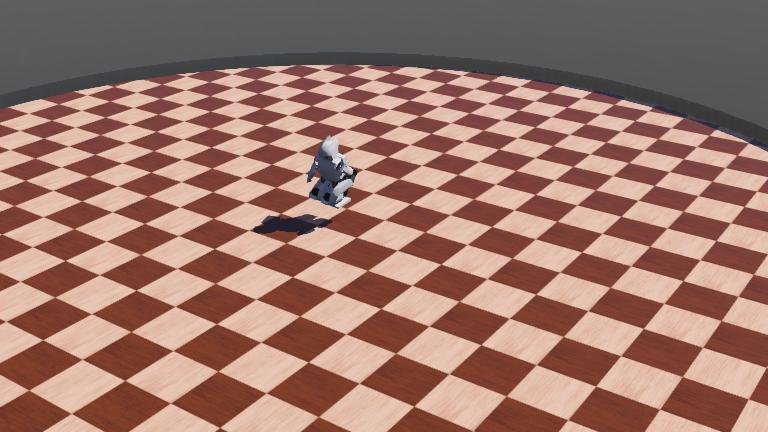
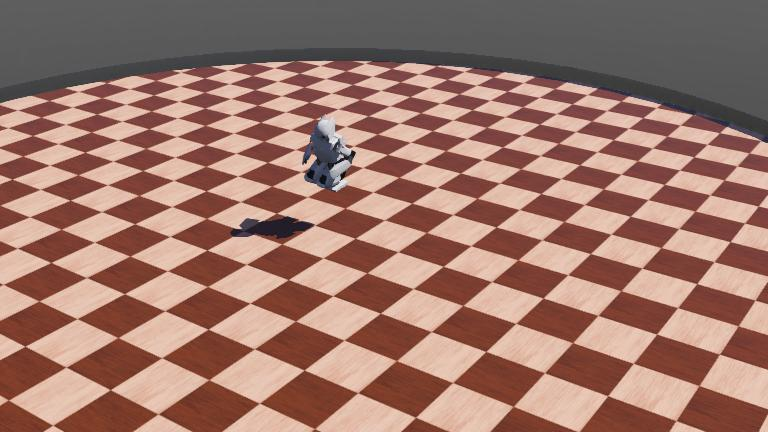
feat: add manual rpy to robot

diff --git a/src/WebotsDriver.cpp b/src/WebotsDriver.cpp
@@ -1,17 +1,19 @@
 #include "webots_driver/WebotsDriver.hpp"
 
-#include <functional>
-#include <iostream>
-#include <rclcpp/rclcpp.hpp>
-#include <webots/Motor.hpp>
-#include <webots/Robot.hpp>
-
 #include "jitsuyo/cli.hpp"
 #include "kansei_interfaces/msg/status.hpp"
 #include "keisan/keisan.hpp"
 #include "tachimawari/joint/model/joint.hpp"
 #include "tachimawari_interfaces/msg/current_joints.hpp"
 #include "tachimawari_interfaces/msg/joint.hpp"
+
+#include <functional>
+#include <iostream>
+#include <rclcpp/rclcpp.hpp>
+#include <webots/Field.hpp>
+#include <webots/Motor.hpp>
+#include <webots/Node.hpp>
+#include <webots/Supervisor.hpp>
 
 std::string motorNames[20] = {
   "ShoulderR", "ShoulderL", "ArmUpperR", "ArmUpperL", "ArmLowerR",
@@ -31,13 +33,28 @@ using keisan::literals::operator""_pi;
 
 double degToRad(double degree) { return degree * 1_pi / 180.0; }
 double radToDeg(double radian) { return radian * 180.0 / 1_pi; }
+double* quaternionToAxisAngle(keisan::Quaternion<double> quaternion) {
+  double angle = 2 * std::acos(quaternion.w);
+  double s = std::sqrt(1 - quaternion.w * quaternion.w);
+  double x = quaternion.x / s;
+  double y = quaternion.y / s;
+  double z = quaternion.z / s;
+
+  double *result = new double[4];
+  result[0] = x;
+  result[1] = y;
+  result[2] = z;
+  result[3] = angle;
+
+  return result;
+}
 
 namespace webots_driver {
 void WebotsDriver::init(
     webots_ros2_driver::WebotsNode *node,
     std::unordered_map<std::string, std::string> &parameters) {
   
-  robot = new webots::Robot;
+  robot = new webots::Supervisor;
 
   for (int i = 0; i < 20; ++i)
     joints.push_back(tachimawari::joint::Joint(i + 1, 0.0));
@@ -100,10 +117,37 @@ void WebotsDriver::step() {
     std::cout << (int)joint.get_id() << ": " << radToDeg(position) << "\n";
     motors[joint.get_id() - 1]->setPosition(position);
   }
-  std::cout << "RPY : " << \
-    orientation.roll.degree() << " " << \
-    orientation.pitch.degree() << " " << \
-    orientation.yaw.degree() << "\n";
+  std::cout << "RPY : "
+            << orientation.roll.degree() << " "
+            << orientation.pitch.degree() << " "
+            << orientation.yaw.degree() << "\n";
+  
+  keisan::Quaternion<double> orientation_quaternion = orientation.quaternion();
+  std::cout << "Quaternion : "
+            << orientation_quaternion.x << " "
+            << orientation_quaternion.y << " "
+            << orientation_quaternion.z << " "
+            << orientation_quaternion.w << "\n";
+  
+  webots::Node *robot_node = robot->getSelf();
+  webots::Field *robot_rotation = robot_node->getField("rotation");
+
+  double* new_orientation = quaternionToAxisAngle(orientation_quaternion);
+  bool valid_orientation = true;
+
+  std::cout << "Axis Angle : ";
+  for (int i = 0; i < 4; ++i) {
+    std::cout << new_orientation[i] << " ";
+    valid_orientation &= !std::isnan(new_orientation[i]);
+  }
+  std::cout << "\n";
+
+  if (!valid_orientation) {
+    std::cout << "Invalid orientation\n";
+    return;
+  }
+
+  robot_rotation->setSFRotation(new_orientation);
 }
 }  // namespace webots_driver
 

diff --git a/include/webots_driver/WebotsDriver.hpp b/include/webots_driver/WebotsDriver.hpp
@@ -1,18 +1,18 @@
 #ifndef WEBOTS_ROS2_PLUGIN_EXAMPLE_HPP
 #define WEBOTS_ROS2_PLUGIN_EXAMPLE_HPP
 
-#include <rclcpp/macros.hpp>
-#include <rclcpp/rclcpp.hpp>
-#include <webots/Motor.hpp>
-#include <webots/Robot.hpp>
-#include <webots_ros2_driver/PluginInterface.hpp>
-#include <webots_ros2_driver/WebotsNode.hpp>
-
 #include "kansei_interfaces/msg/status.hpp"
 #include "keisan/keisan.hpp"
 #include "tachimawari/joint/model/joint.hpp"
 #include "tachimawari_interfaces/msg/current_joints.hpp"
 #include "tachimawari_interfaces/msg/joint.hpp"
+
+#include <rclcpp/macros.hpp>
+#include <rclcpp/rclcpp.hpp>
+#include <webots/Motor.hpp>
+#include <webots/Supervisor.hpp>
+#include <webots_ros2_driver/PluginInterface.hpp>
+#include <webots_ros2_driver/WebotsNode.hpp>
 
 namespace webots_driver {
 class WebotsDriver : public webots_ros2_driver::PluginInterface {
@@ -39,8 +39,8 @@ private:
   std::vector<double> jointsLowerLimit;
   std::vector<double> jointsUpperLimit;
 
-  webots::Robot *robot;
   webots::Motor *motors[20];
+  webots::Supervisor *robot;
 };
 }  // namespace webots_driver
 #endif
